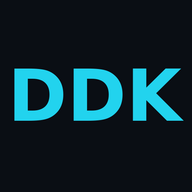
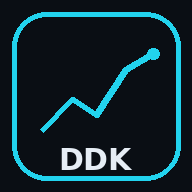
Add files via upload

Changed region(s): [[0.0625, 0.0625, 0.9688, 0.9688]]

diff --git a/index.html b/index.html
@@ -8,6 +8,9 @@
 <meta name="apple-mobile-web-app-title" content="DDK's Trading Journal">
 <meta name="apple-mobile-web-app-status-bar-style" content="black-translucent">
 <meta name="theme-color" content="#0a0e14">
+<link rel="manifest" href="manifest.json">
+<link rel="icon" href="icon-192.png">
+<link rel="apple-touch-icon" href="icon-192.png">
 <title>DDK's Trading Journal</title>
 <style>
 :root{
